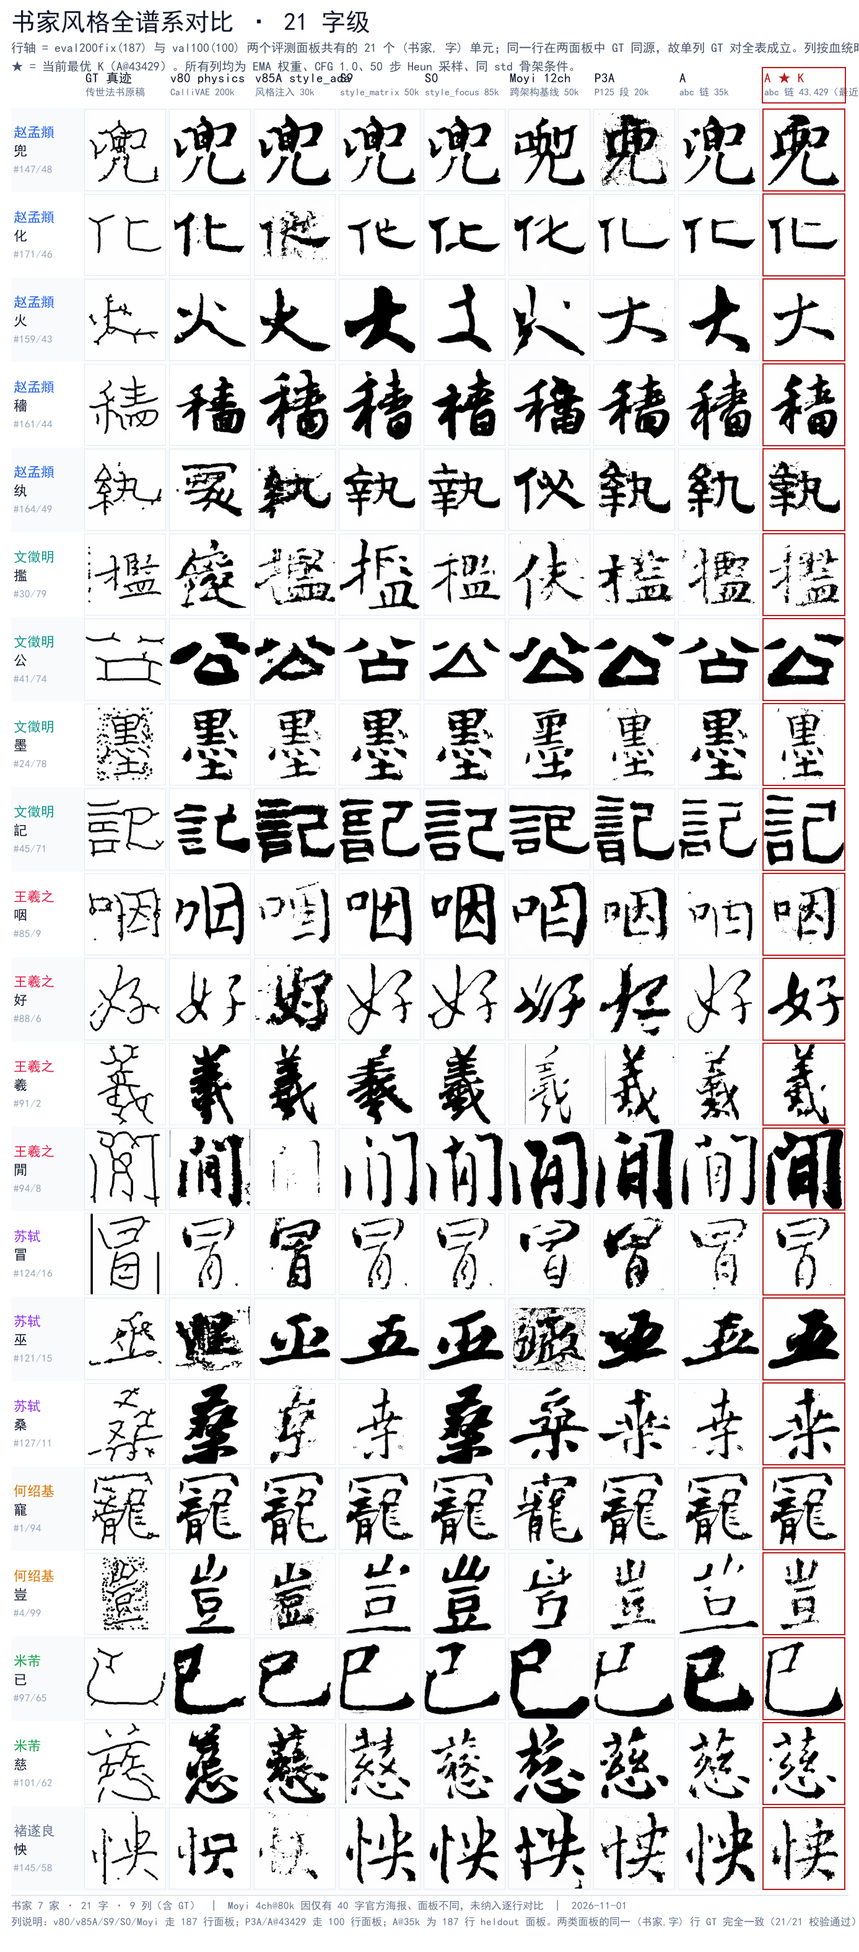
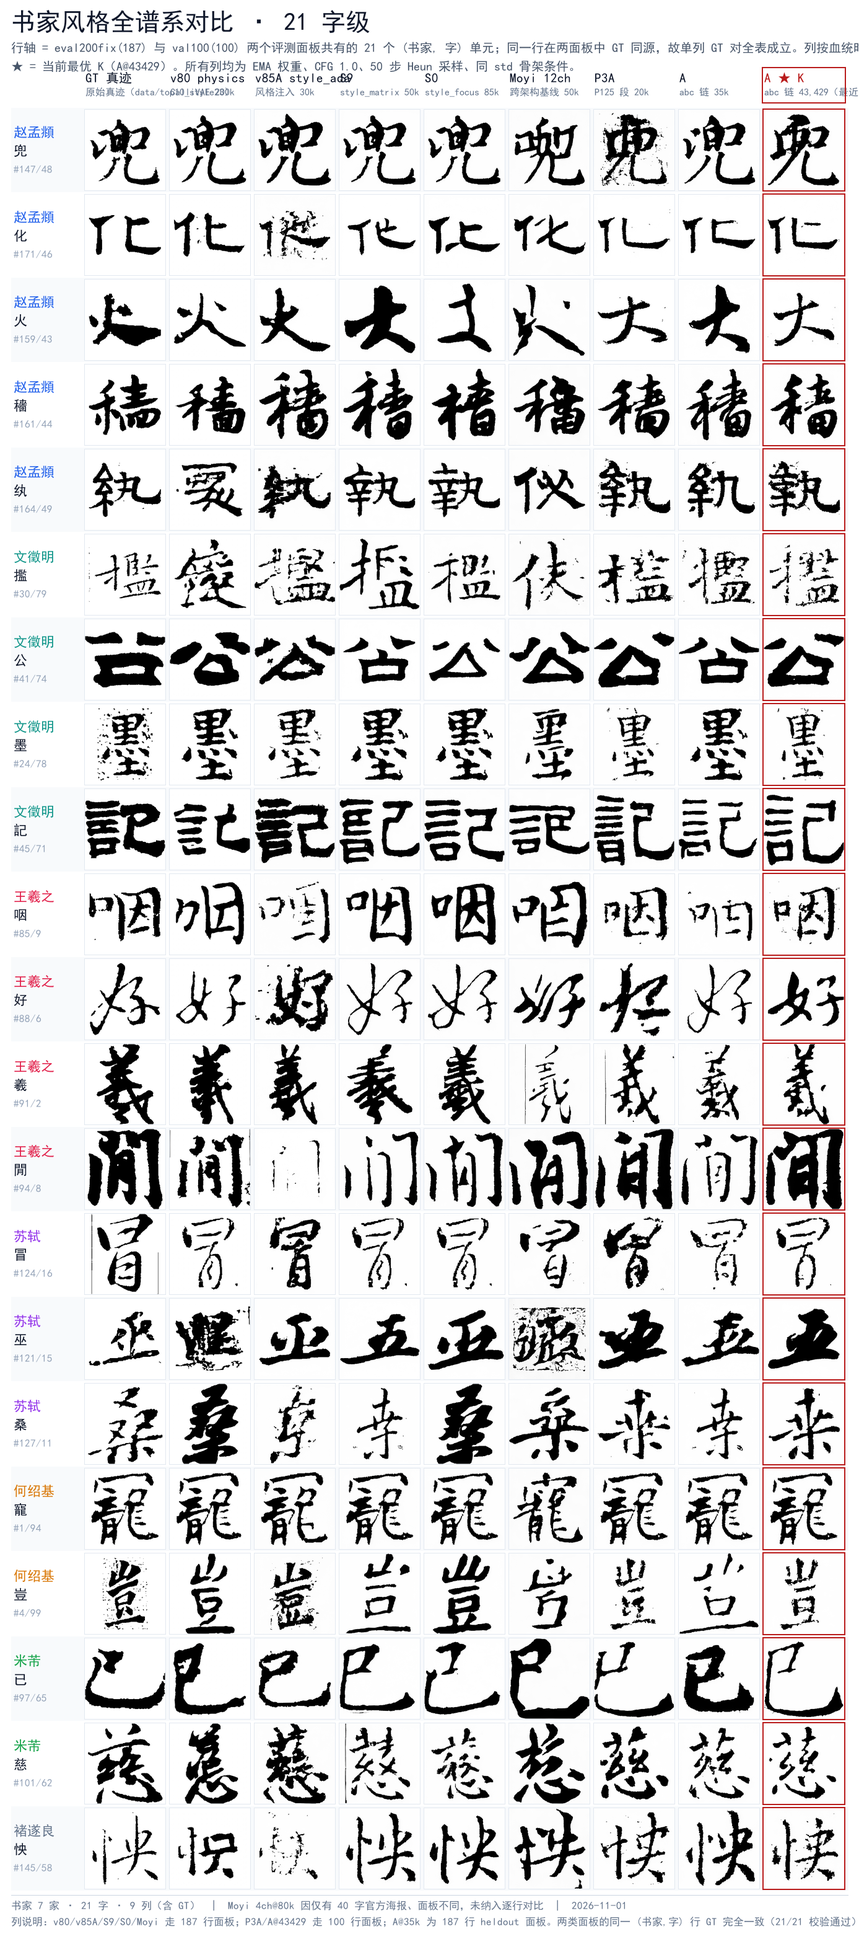
poster: fix GT column - moyi's gt{i}.png is a thinned/skeletonised variant, use the original truth from image_path
Verified on 王羲之/羲: original truth and our eval gt both give ink 28.65% / width p50 11.66,
while moyi's gt gives 11.12% / 4.00. GT column now mean ink 19.7%, in line with the
model columns (15.6-20.5%); before the fix it was 9.7%, which was the tell.

Changed region(s): [[0.0908, 0.0625, 0.2119, 0.9688], [0.0908, 0.0938, 0.1211, 0.125]]

diff --git a/tools/poster_20261101/build_gt.py b/tools/poster_20261101/build_gt.py
@@ -1,0 +1,52 @@
+"""Materialise the GT column from the ORIGINAL真迹 files named in the panel CSV.
+
+The eval's own gt{i}.png was verified pixel-stat-identical to these originals, but
+the moyi run's gt{i}.png is a thinned variant, so we never use that one again.
+"""
+import csv
+import json
+import shutil
+from pathlib import Path
+
+import numpy as np
+from PIL import Image
+from scipy.ndimage import distance_transform_edt
+
+ROOT = Path(__file__).resolve().parents[2]
+OUT = ROOT / 'scratch/panels/poster_imgs/GT'
+CELLS = ROOT / 'tools/poster_20261101/cells.json'
+
+cells = json.loads(CELLS.read_text(encoding='utf-8'))['cells']
+rows = list(csv.DictReader(open(ROOT / 'scratch/panels/validation_val100.csv', encoding='utf-8-sig')))
+OUT.mkdir(parents=True, exist_ok=True)
+
+ok, miss = 0, []
+for c in cells:
+    r = rows[c['idx100']]
+    if (r['calligrapher'], r['character']) != (c['writer'], c['char']):
+        raise SystemExit(f"panel mismatch at idx100={c['idx100']}: "
+                         f"{r['calligrapher']}/{r['character']} != {c['writer']}/{c['char']}")
+    src = ROOT / r['image_path']
+    if not src.exists():
+        miss.append((c['writer'], c['char'], str(src)))
+        continue
+    dst = OUT / f'g{c["idx100"]}.png'
+    Image.open(src).convert('L').resize((256, 256), Image.LANCZOS).save(dst)
+    ok += 1
+
+print(f'wrote {ok}/{len(cells)} GT files to {OUT.relative_to(ROOT)}')
+if miss:
+    print('missing originals:')
+    for m in miss:
+        print('  ', m)
+
+
+def st(p):
+    a = np.array(Image.open(p).convert('L')).astype(np.float32) / 255.
+    ink = (1.0 - a) > 0.5
+    w = 2.0 * distance_transform_edt(ink)[ink]
+    return 100 * ink.mean(), float(np.percentile(w, 50))
+
+
+inks = [st(OUT / f'g{c["idx100"]}.png')[0] for c in cells if (OUT / f'g{c["idx100"]}.png').exists()]
+print(f'GT ink%: mean={np.mean(inks):.2f} min={min(inks):.2f} max={max(inks):.2f}')

diff --git a/tools/poster_20261101/build_poster.py b/tools/poster_20261101/build_poster.py
@@ -35,7 +35,7 @@ WRITER_COLORS = {
 # base dir may be absolute-in-repo; the pulled columns live under scratch/panels/poster_imgs.
 REMOTE = PANEL
 COLUMNS = [
-    ('docs/106moyi/moyi/results/moyi_top10_rf/eval_ours200fix', 'GT 真迹', '传世法书原稿', 'gt', False),
+    ('GT', 'GT 真迹', '原始真迹（data/top10_style23）', '100', False),
     ('assets/results/v80_callivae_physics_noOT/20261011-195827-v80-callivae-physics-noOT/'
      'eval_samples_ctrl/step0200000/eval200fix', 'v80 physics', 'CalliVAE 200k', '200', False),
     ('assets/results/v85A_style_ada/20261014-032924-v85A-style-ada/'

diff --git a/tools/poster_20261101/README.md b/tools/poster_20261101/README.md
@@ -42,6 +42,7 @@ python tools/poster_20261101/build_charts.py     # -> assets/posters/fig_p125_*.
 | 文件 | 作用 |
 |---|---|
 | `pick_cells.py` | 求两面板的 (书家, 字) 交集，输出 `cells.json`（含 `idx200` / `idx100` 与 GT 同源校验） |
+| `build_gt.py` | 从面板 CSV 的 `image_path` 取**原始真迹**做 GT 列，并断言每格 (书家, 字) 与 `cells.json` 一致 |
 | `validate_cells.py` | 校验索引不越界、本地列与 GT 齐备 |
 | `build_poster.py` | 合成 poster（9 列 × 21 行，行标签按书家着色，K 列描红） |
 | `build_charts.py` | 两张定量图；指标只读官方 `eval_stdskel_summary.csv` / `eval.json`，**不重算** |
@@ -52,6 +53,9 @@ python tools/poster_20261101/build_charts.py     # -> assets/posters/fig_p125_*.
 
 ## 注意
 
+- **GT 别用 moyi 那份 `gt{i}.png`**：那是减细/骨架化产物（墨量只有真迹的 39%、笔宽 1/3）。
+  用 `build_gt.py` 从 `image_path` 取原始真迹。自检办法：GT 列 ink% 应与其他列同量级
+  （实测 19.7% vs 15.6–20.5%）；若 GT 明显更淡，就是取错了。
 - **不重算指标**：`build_charts.py` 只消费官方评测内核的输出。自己实现一遍 SSIM/LPIPS
   会和历史数字不可比。
 - **不猜缺失数字**：v80 / v85A 的历史汇总在两机都不再留存，图上直接不画，而不是补一个估计值。
